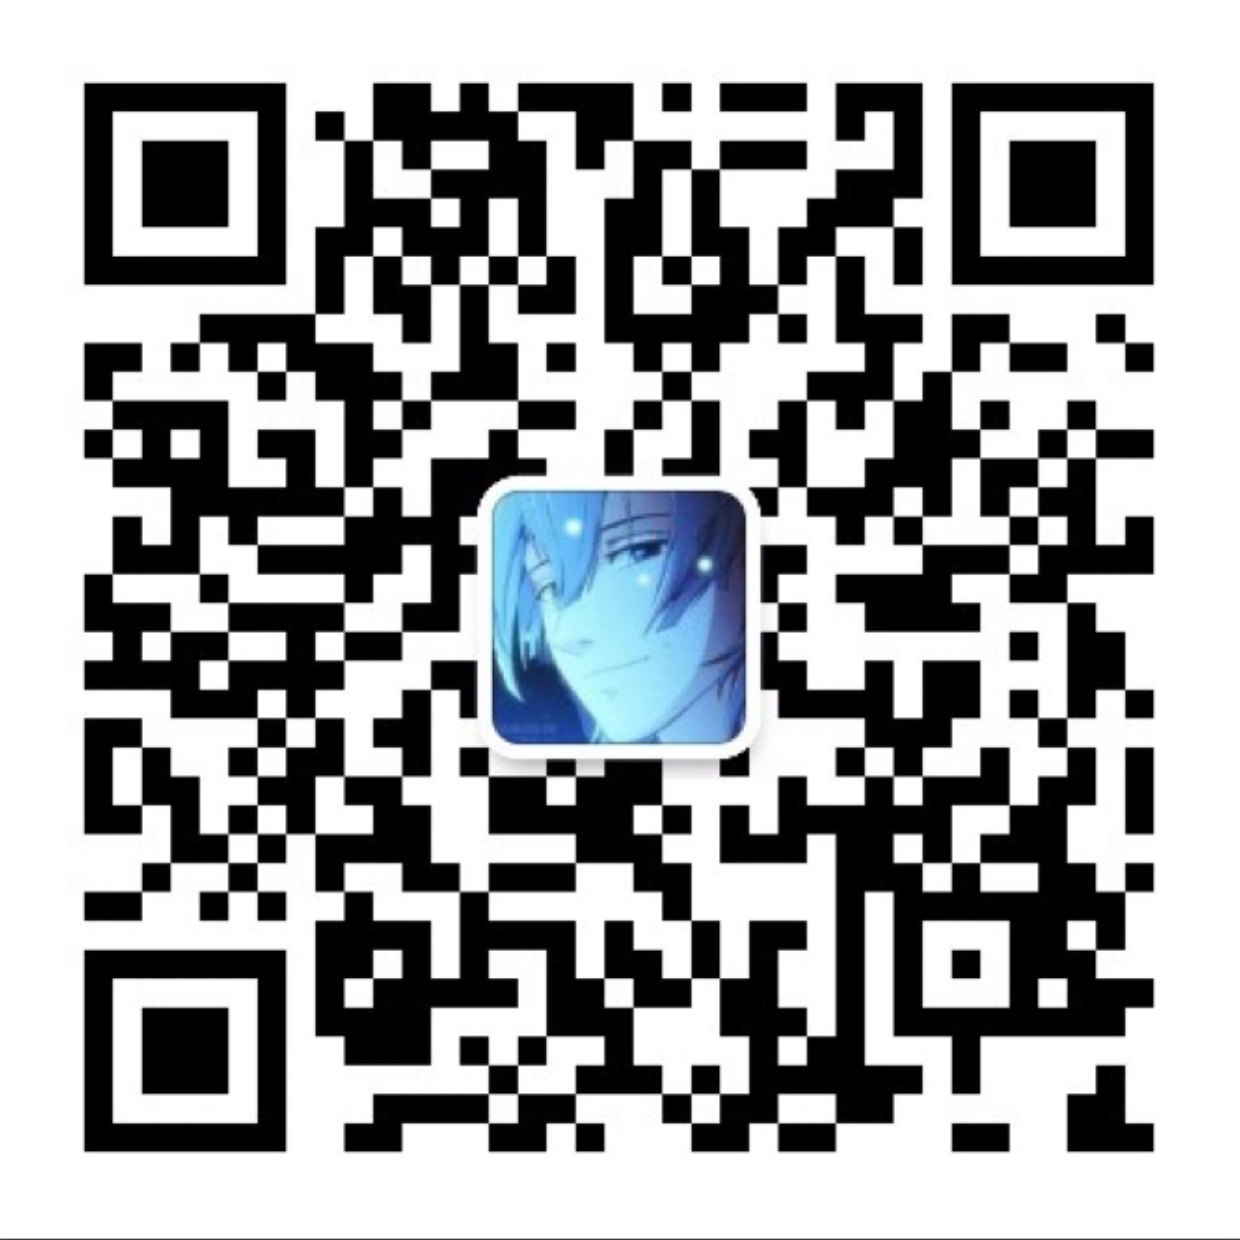
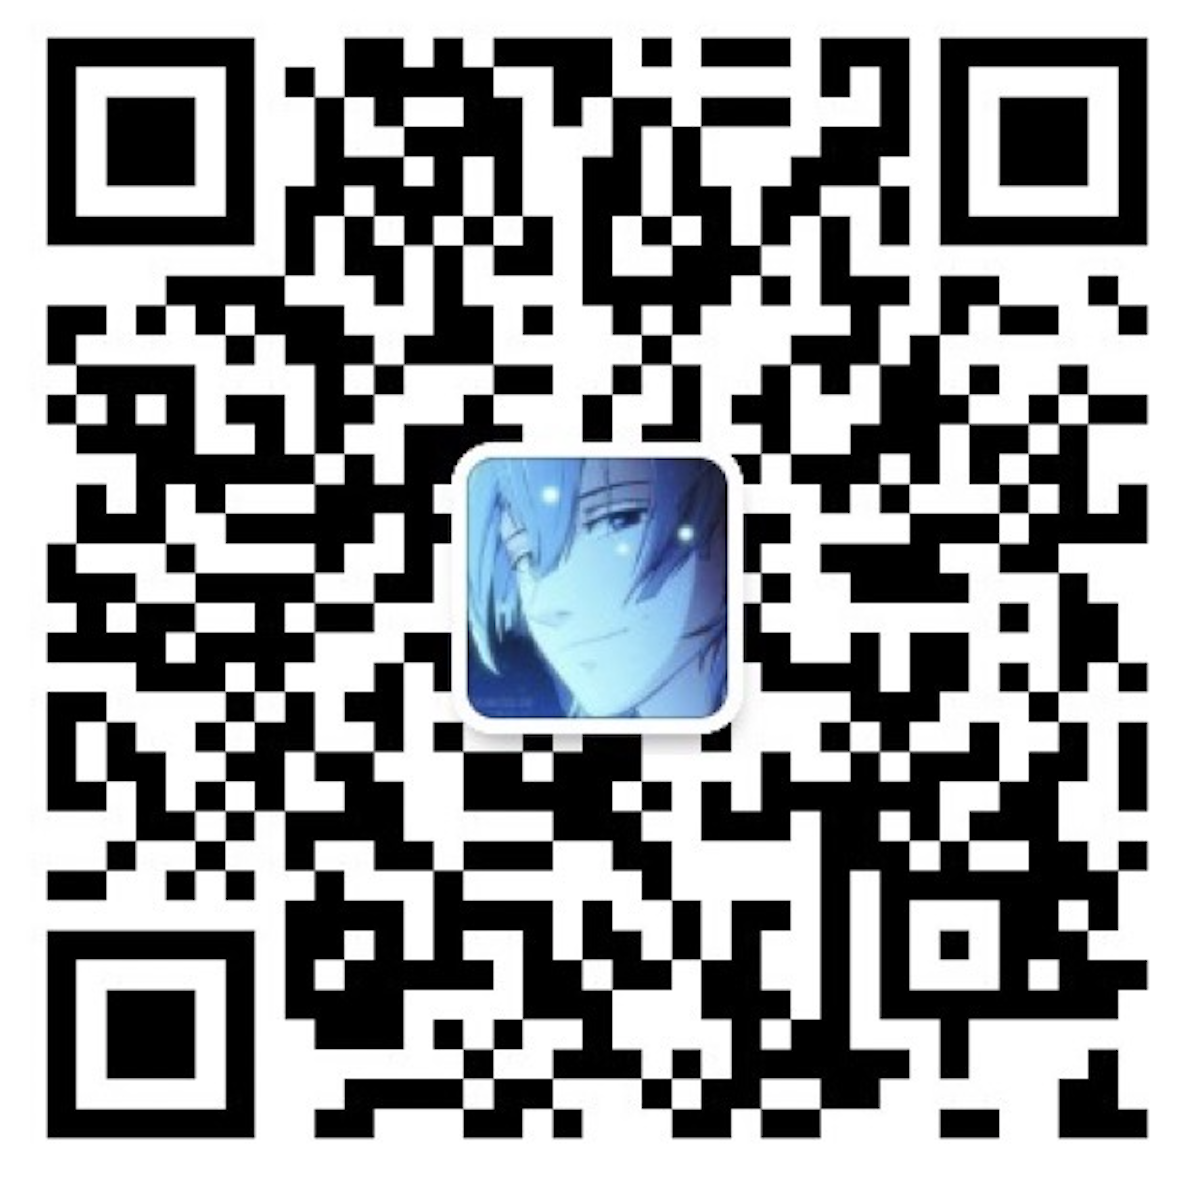
feat: update qrcode

diff --git a/README.md b/README.md
@@ -8,4 +8,5 @@
 - [004【广州】晓教育-前端工程师](https://github.com/xrr2016/Interview-experience-share/issues/7)
 
 联系群主加入微信面试经验交流群
-![xrr20160808](./coldstone.png)
+
+<img src="./coldstone.png" width="1240" style="width: 240px;" alt="xrr20160808">
